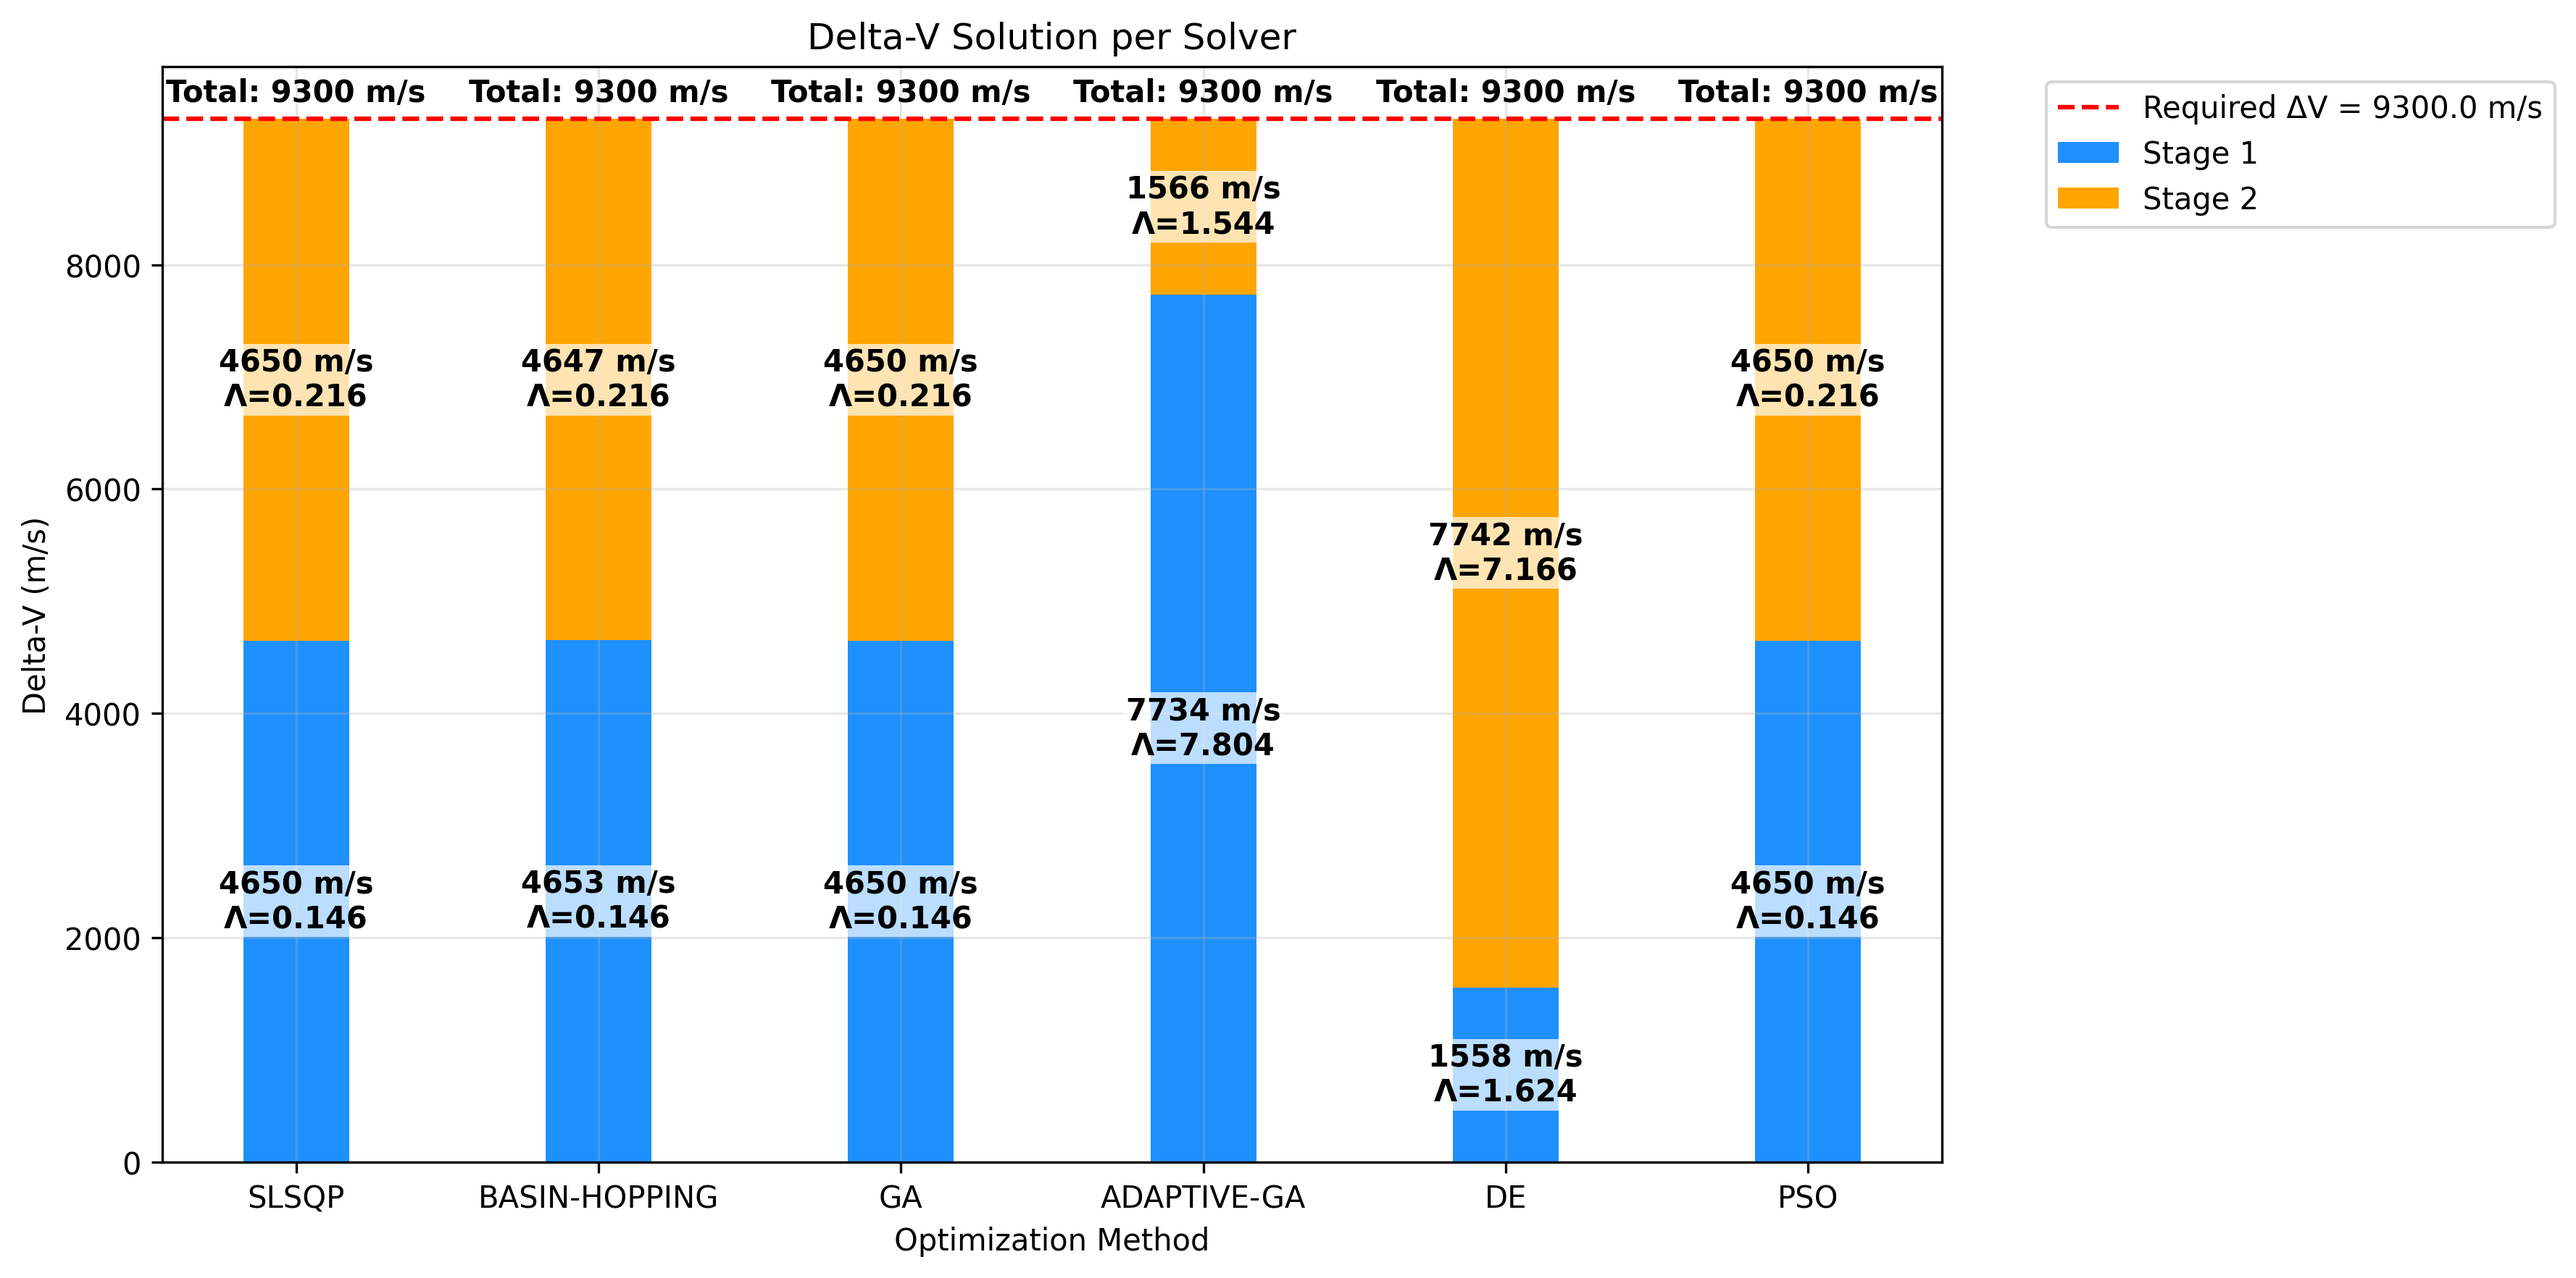
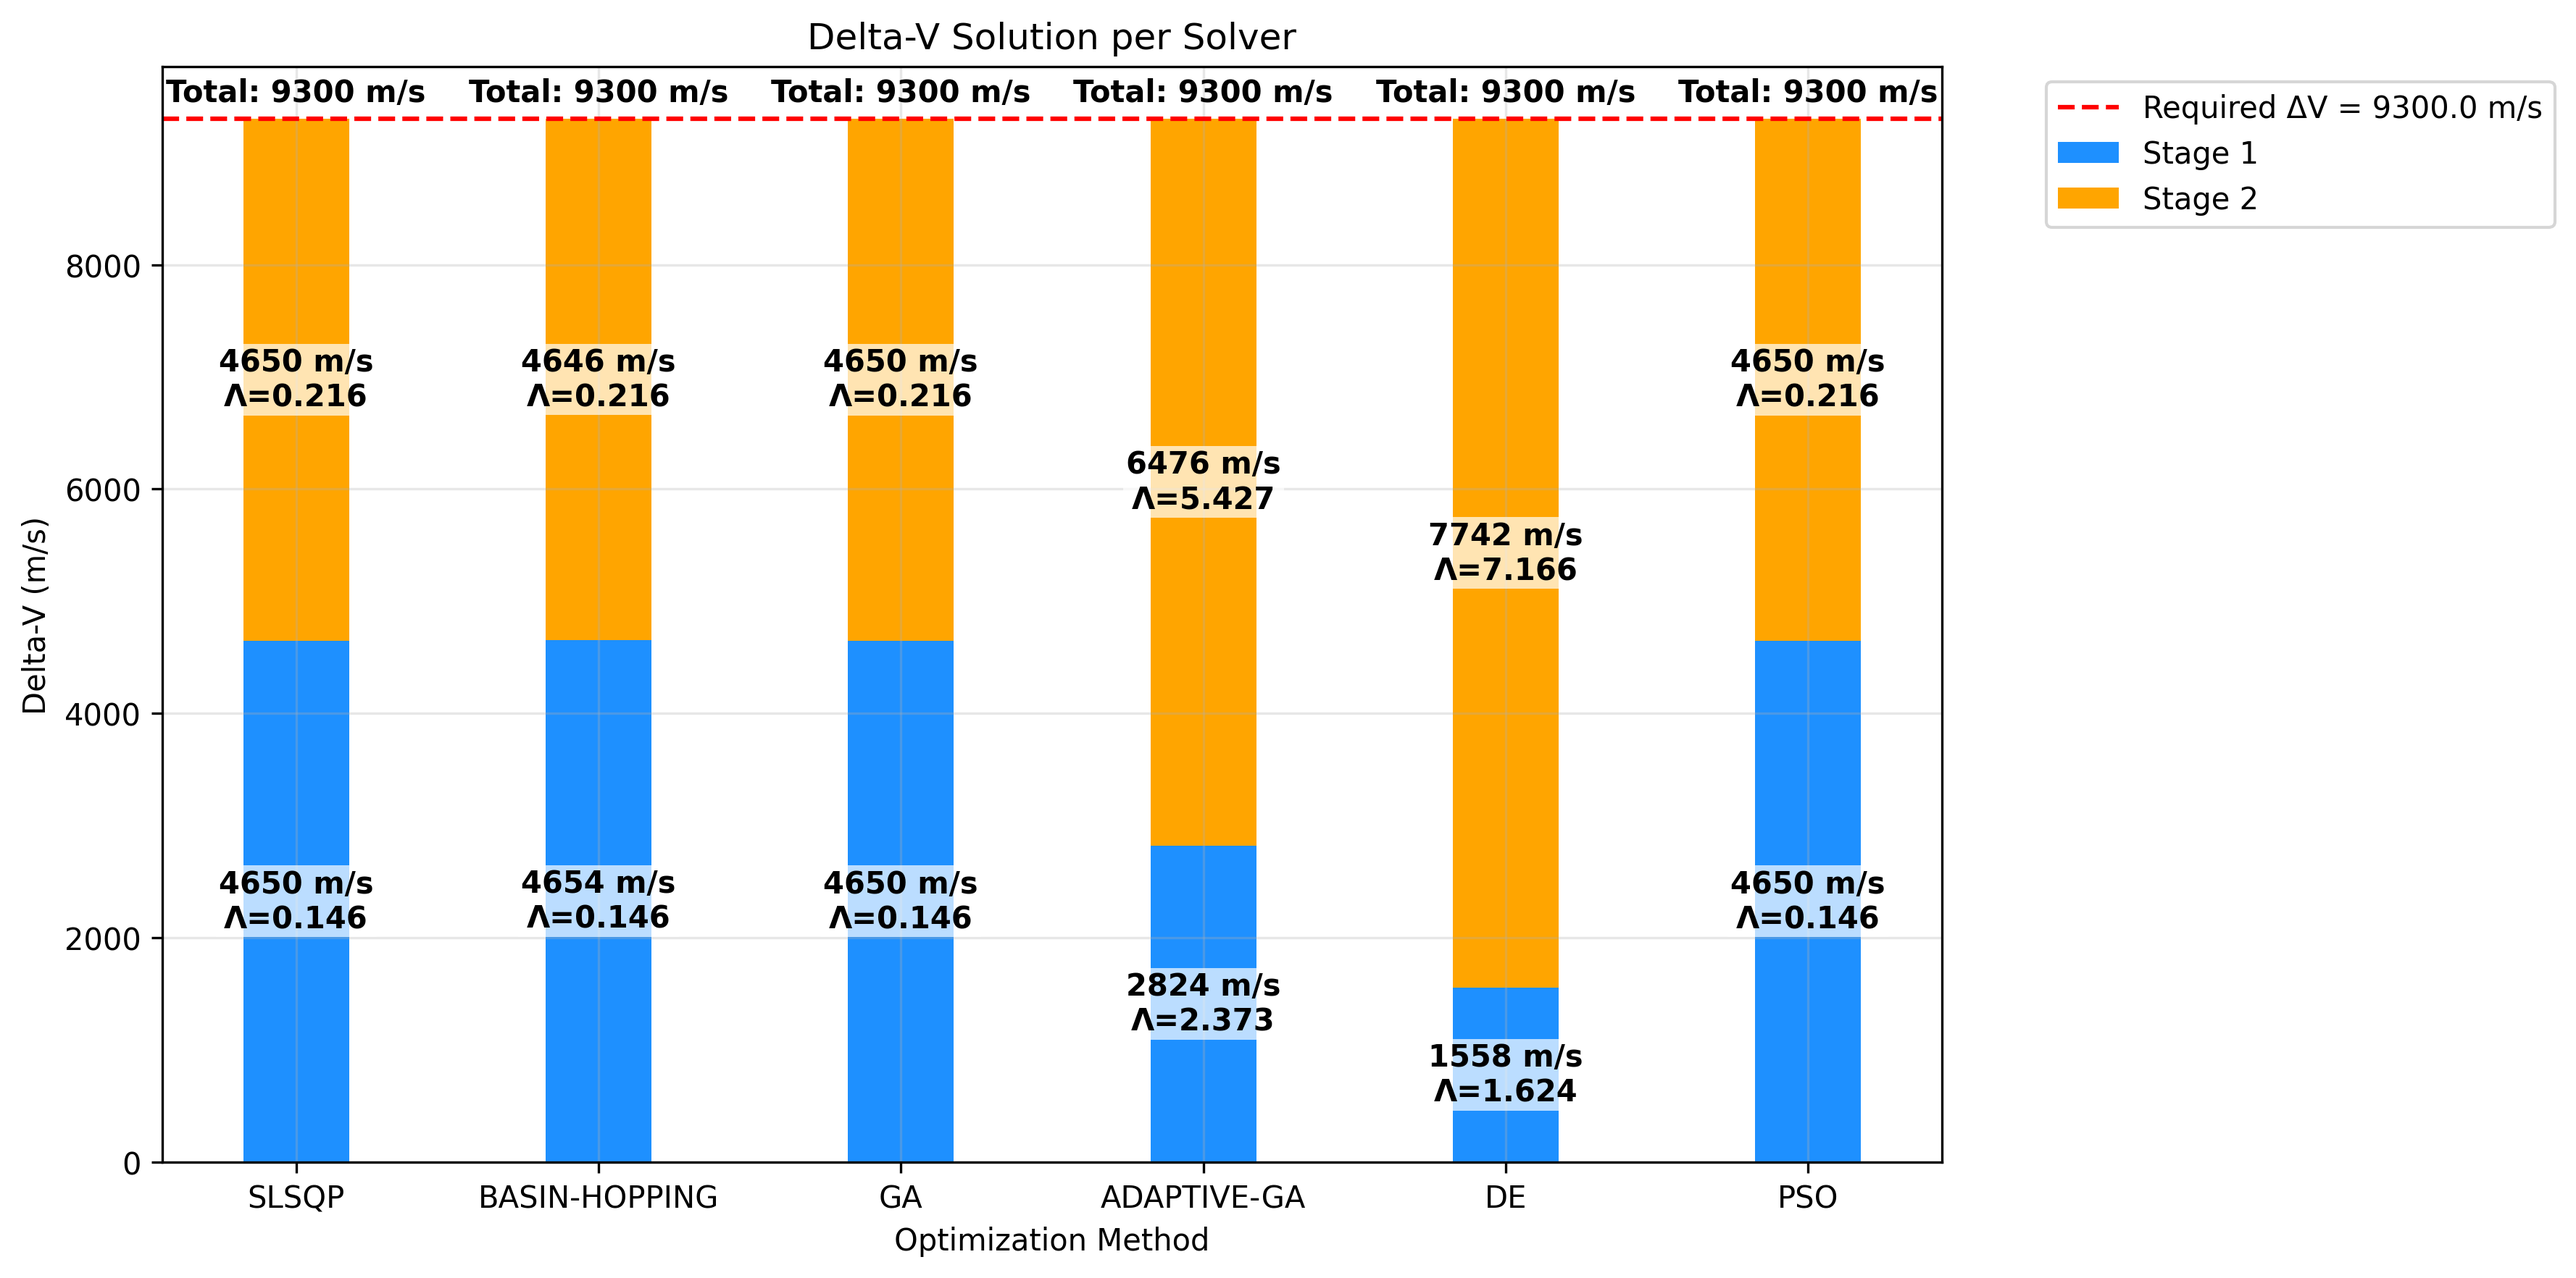
fixed error in ga solver

Changed region(s): [[0.4371, 0.2181, 0.4996, 0.6856], [0.4371, 0.7479, 0.4996, 0.8102], [0.4371, 0.1246, 0.4996, 0.187]]

diff --git a/Stage_Opt/src/optimization/solvers.py b/Stage_Opt/src/optimization/solvers.py
@@ -252,7 +252,7 @@ def solve_with_ga(initial_guess, bounds, G0, ISP, EPSILON, TOTAL_DELTA_V, config
         
         algorithm = GA(
             pop_size=population_size,
-            sampling=initial_guess,
+            sampling=np.array([initial_guess]),  # Convert to numpy array
             crossover=SBX(prob=crossover_prob, eta=crossover_eta),
             mutation=PM(prob=mutation_prob, eta=mutation_eta),
             eliminate_duplicates=True

diff --git a/Stage_Opt/output/optimization_report.tex b/Stage_Opt/output/optimization_report.tex
@@ -66,7 +66,7 @@ The following methods were evaluated, sorted by their achieved payload ratio \ci
 Method & Payload Ratio & $\lambda_{1}$ & $\lambda_{2}$ \\
 \midrule
 DE & 0.0553 \\
-ADAPTIVE-GA & 0.0414 \\
+ADAPTIVE-GA & 0.0521 \\
 GA & 0.0315 \\
 SLSQP & 0.0315 \\
 PSO & 0.0315 \\
